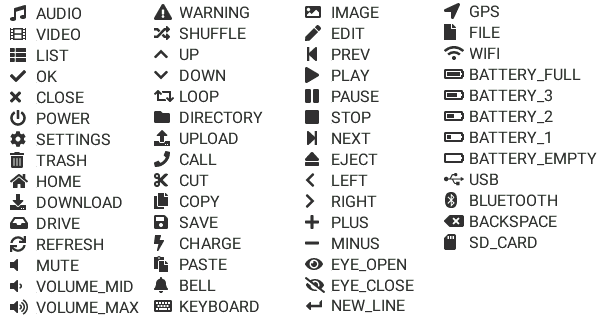
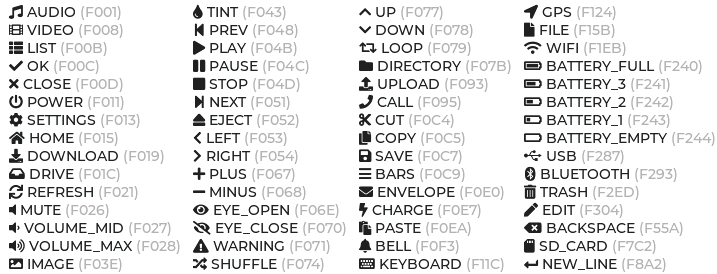
symbols list update

Changed region(s): [[0.0, 0.0, 1.0, 0.9927]]

diff --git a/components/lvgl.rst b/components/lvgl.rst
@@ -320,14 +320,14 @@ LVGL internally stores fonts rendered in a C array. The library offers by defaul
 - ``montserrat_46``: 46px font
 - ``montserrat_48``: 48px font
 
-You can display the embedded symbols easily on supported widgets using the ``symbol`` configuration option:
+You can display the embedded symbols among the text by their codepoint address (the hexadecimal value in grey below, preceeded by ``\u``, eg. ``\uF00C``) or more easily on supported widgets using the ``symbol`` configuration option:
 
 .. figure:: /components/images/lvgl_symbols.png
     :align: center
 
 .. note::
 
-    The ``text_font`` parameter influences the size of ``symbol``, since all the built-in font arrays based on Montserrat include these symbols at the respective sizes.
+    The ``text_font`` parameter influences the size of ``symbol`` configuration option, since all the built-in font arrays based on Montserrat include these symbols at the respective sizes.
 
 In addition to the above, the following special fonts are available from LVGL as built-in:
 
@@ -631,9 +631,9 @@ The Button Matrix widget is a lightweight way to display multiple buttons in row
     - **buttons** (**Required**, list): A list of buttons in a row:
         - **id** (*Optional*): An ID for a button
         - **text** or **symbol** (*Optional*): Text or built-in :ref:`symbol <lvgl-fonts>` to display on the button.
+        - **key_code** (*Optional*, string): One character be sent as the key code to a :ref:`key_collector` instead of ``text`` when the button is pressed.
         - **width** (*Optional*): Width relative to the other buttons in the same row. A value between ``1`` and ``15`` range, default ``1`` (eg. in a line with two buttons: one ``width: 1`` and another one ``width: 2``, the first will be ``33%`` wide while the second will be ``66%`` wide). 
         - **selected** (*Optional*, boolean): Set the button as the most recently released or focused. Defaults to ``false``.
-        - **key_code** (*Optional*, string): One character be sent as the key code to a :ref:`key_collector` instead of ``text`` when the button is pressed.
         - **control** (*Optional*): Binary flags to control behavior of the buttons (all ``false`` by default):
             - **hidden** (*Optional*, boolean): makes a button hidden (hidden buttons still take up space in the layout, they are just not visible or clickable).
             - **no_repeat** (*Optional*, boolean): Disable repeating when the button is long pressed.
@@ -944,7 +944,7 @@ The ``led`` can be also integrated as :doc:`/components/light/lvgl`.
 
     If configured as a light component, ``color`` and ``brightness`` are overridden by the light at startup, according to its ``restore_mode`` setting.
 
-Check out :ref:`lvgl-cook-keypad` for an example how to change the led styling properties from an automation.
+Check out :ref:`lvgl-cook-keypad` in the Cookbook for an example how to change the led styling properties from an automation.
 
 .. _lvgl-wgt-lin:
 

diff --git a/cookbook/lvgl.rst b/cookbook/lvgl.rst
@@ -762,7 +762,7 @@ The script runs every minute to update the hand line positions and the texts.
 A numeric input keypad
 ----------------------
 
-The :ref:`lvgl-wgt-bmx` widget can work together with the :ref:`key_collector` to collect the button presses as key press sequences. It sends the ``text`` of the buttons to the key collector.
+The :ref:`lvgl-wgt-bmx` widget can work together with the :ref:`key_collector` to collect the button presses as key press sequences. It sends the ``text`` of the buttons (or ``key_code`` where configured) to the key collector.
 
 .. figure:: images/lvgl_cook_keypad.png
     :align: center
@@ -804,7 +804,7 @@ If you key in the correct sequence, the :ref:`lvgl-wgt-led` widget will change c
                   - label:
                       id: lvgl_label
                       align: CENTER
-                      text: "* delete, # enter"
+                      text: "Enter code and \uF00C"
                       text_align: center
             - btnmatrix:
                 id: lvgl_keypad
@@ -879,7 +879,7 @@ If you key in the correct sequence, the :ref:`lvgl-wgt-led` widget will change c
               else:
                 - lvgl.label.update:
                     id: lvgl_label
-                    text: "Please enter code"
+                    text: "Enter code and \uF00C"
         on_result:
           - if:
               condition:
@@ -893,7 +893,7 @@ If you key in the correct sequence, the :ref:`lvgl-wgt-led` widget will change c
                     id: lvgl_led
                     color: 0xFF0000
 
-A few notable things in this example: usage of a base object ``obj`` as a parent for the label (in order to center the label in the middle of it and emphasize it with shadows independently of the label's dimensions); usage of ``align_to`` to align it to the led vertically; changing the background color of the buttons in ``pressed`` state; using the ``key_code`` configuration option to send a different character to ``key_collector`` instead of the displayed symbol.
+A few notable things in this example: usage of a base object ``obj`` as a parent for the label (in order to center the label in the middle of it and emphasize it with shadows independently of the label's dimensions); usage of ``align_to`` to align it to the led vertically; changing the background color of the buttons in ``pressed`` state; using the ``key_code`` configuration option to send a different character to ``key_collector`` instead of the displayed symbol; display a symbol within the text by its unicode codepoint address in the :ref:` font <lvgl-fonts>`.
 
 .. _lvgl-cook-idlescreen:
 
